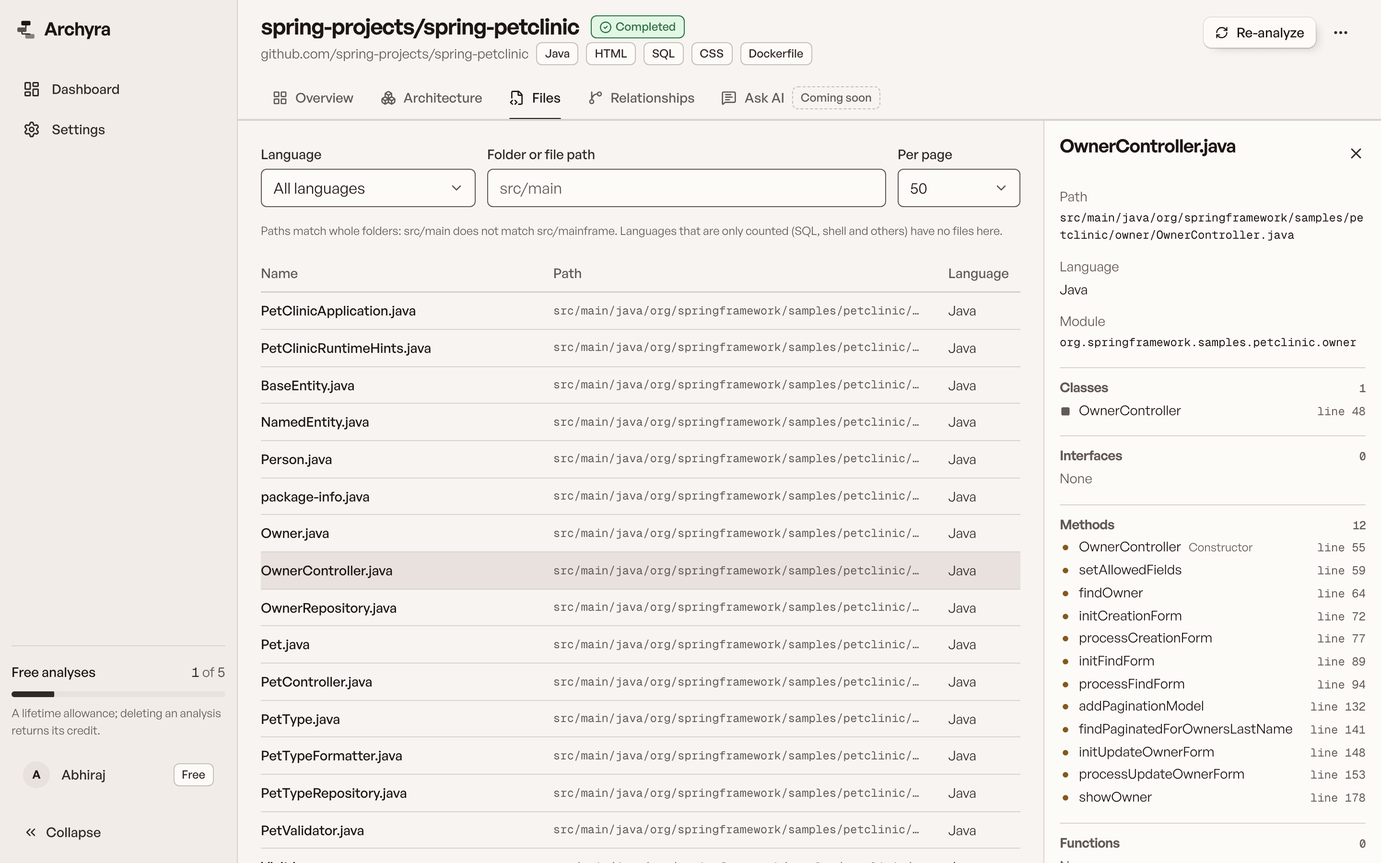
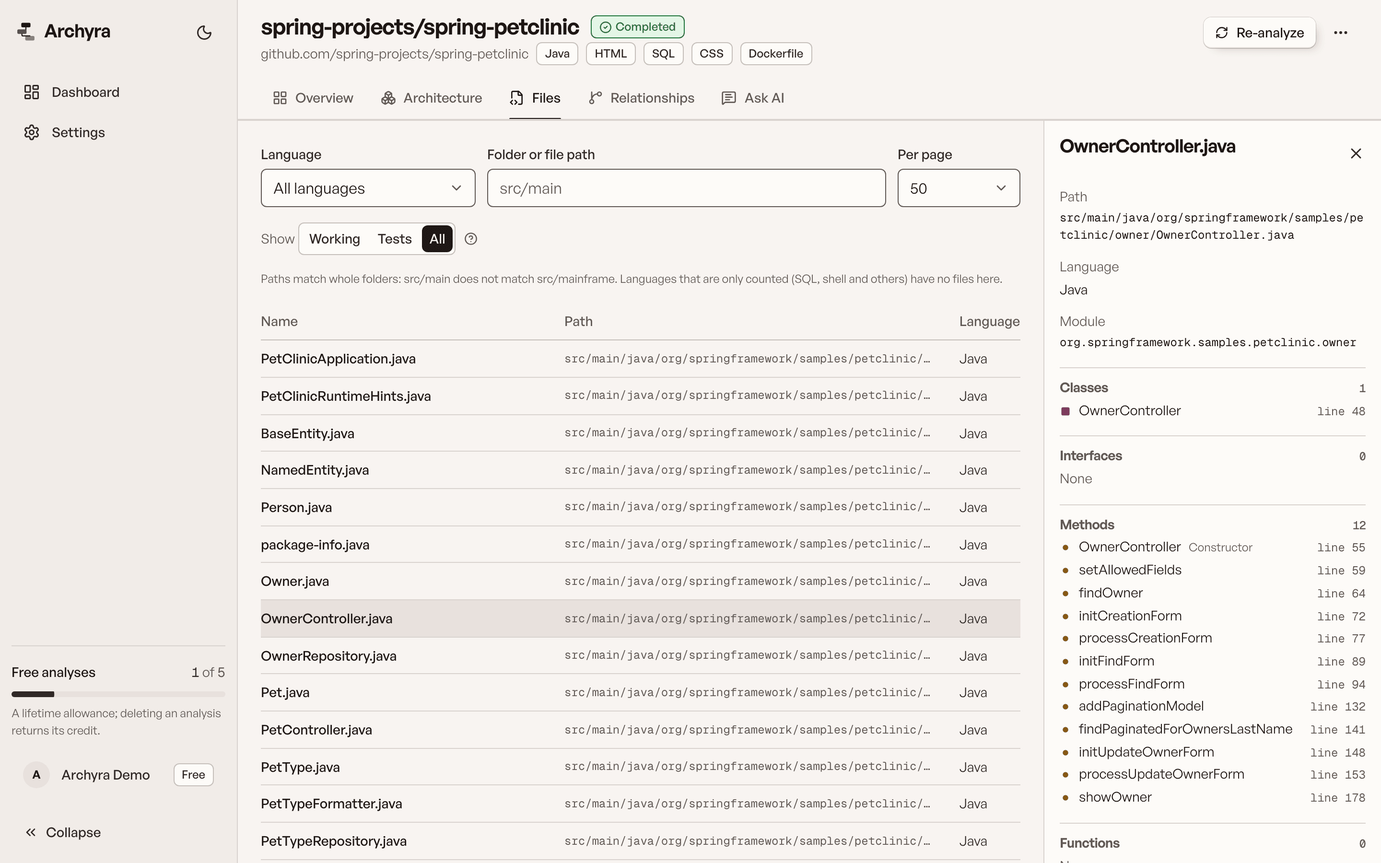
Add a README and the MIT licence, refresh the screenshots
- README.md: what Archyra is, built features and roadmap, how it works,
  tech stack, quick start, configuration names, testing.
- LICENSE: MIT.
- frontend: engines node >=22 (package.json and lockfile).
- Re-capture hero, graph-layered, workspace-preview, files-table and
  relationships-browser from the current app (foundations on top, Ask AI
  built); workspace-preview opens the class view (capture.mjs).
- Re-record the two light landing baselines that use those images.
- Update the assets README, Architecture.md and the CLAUDE.md files.

diff --git a/frontend/CLAUDE.md b/frontend/CLAUDE.md
@@ -18,7 +18,8 @@ npm run e2e -- theme    # the dark theme in a browser: toggle, no flash, Setting
 node scripts/snapshot-tokens.mjs   # re-record src/styles/tokens.light.snapshot.json (only when a light colour is meant to change)
 npm run e2e:session     # just the session-boot regression tests (scripts/e2e/session-boot.spec.ts)
 npm run e2e             # Playwright against the running app and backend (skips without .env.local creds)
-npm run assets:capture  # regenerate src/assets/*.png from the running app (see src/assets/README.md)
+npm run assets:capture  # regenerate src/assets/*.png from the running app (see src/assets/README.md); `-- --only hero,graph-layered` for some
+npm run e2e -- visual -g "landing at"   # compare only the two landing baselines (add --update-snapshots after re-capturing an asset)
 node scripts/e2e/probe-api.mjs   # print live response SHAPES (no values) to check src/api/types.ts (includes ai-index and conversations)
 
 npx vitest run src/lib/url.test.ts          # one unit test file
@@ -28,6 +29,7 @@ npm run e2e -- -g "admin gating"            # e2e tests by name
 
 ## Setup
 
+- **Node 22 or newer** (`engines` in `package.json` and its lockfile entry; npm only warns unless `engine-strict` is set). The root `README.md` states the same; keep them in step.
 - `VITE_BACKEND_ORIGIN` (default `http://localhost:8080`) is the proxy target; `.env.example` lists every variable. `VITE_*` values ship to the browser: never a secret there.
 - The browser only uses relative URLs, so SPA and API share an origin and the `SameSite=Strict` refresh cookie works. The proxy keeps the original `Host` (`changeOrigin: false`) and adds `X-Forwarded-*` (`xfwd`), so the backend builds OAuth redirect URIs on `http://localhost:5173` (checked against the real authorization redirect; `scripts/e2e/auth-flows.spec.ts` guards it). Register `http://localhost:5173/login/oauth2/code/{google,github}` with the providers and always browse via `http://localhost:5173`, never `127.0.0.1`. **Google** can hold several redirect URIs (keep the `:8080` one next to it); a **GitHub OAuth App holds exactly one** callback URL, so it serves the proxy flow or direct `:8080` use, not both (a second OAuth App with its own `GITHUB_CLIENT_ID`/`GITHUB_CLIENT_SECRET` in `backend/.env` covers both). A `redirect_uri_mismatch` is a provider-console setting, not a code defect. In production, serve the SPA and the API on one origin behind a reverse proxy.
 - Capture and e2e scripts read test accounts from an untracked `.env.local` (`ARCHYRA_TEST_*`, `ARCHYRA_ADMIN_*`). Use dedicated test accounts, never a real person's.
@@ -64,9 +66,9 @@ scripts/       check-tokens.mjs, check-contrast.mjs, snapshot-tokens.mjs, captur
 - **Analysis lifecycle:** `/analyses/:id` polls status (`useAnalysisStatus`, 2 s, stops at COMPLETED/FAILED) and hands over to `/analyses/:id/overview`; the workspace layout redirects back to the progress view while the analysis is not COMPLETED. Result queries take a `ready` flag and stay idle until then.
 - **Restored (`NOT_ANALYZED`) repositories** (a returning user's repositories whose credit an earlier, deleted account spent; backend: `Architecture.md` → "A returning user gets their repositories back…"). The status is **idle**: `lib/status`/`api/types` classify it as neither running (`isRunning` is `RUNNING_STATUSES.includes`) nor finished (`isTerminal`), `isSettled` (COMPLETED, FAILED, NOT_ANALYZED) stops polling, and `useAnalysesPage` polls only while something `isRunning`. The history list (`HistoryTable`) shows the repository name and URL, a "Not analysed" chip (`StatusChip`: `CircleDashed` icon plus text, never colour alone), `RESTORED_NOTE` ("Restored from your previous account. Analyse it to use the credit you already spent, or delete it to get the credit back.", `lib/restoredEntry.ts`) and `RestoredEntryActions` (*Analyse* and *Delete*). *Delete* is the existing `DeleteDialog` with entry copy and the real usage numbers (`creditReturnNote`: "you have used 5 of 5, and will have used 4 of 5"; Premium is told the count does not change). *Analyse* is `useAnalyzeRestored` → `POST /analyses/{id}/analyze` (the same row; nothing is charged): on success it sets the status query to QUEUED (so polling resumes and `AnalysisPage` does not bounce back), refetches history and usage, and navigates to `/analyses/:id` (the normal progress view); errors are by `code` (`ANALYSIS_NOT_RESTORABLE`, `SERVICE_BUSY`, `RATE_LIMITED`). Opening one: `AnalysisPage` redirects a NOT_ANALYZED id to `/overview`, and `WorkspaceLayout` shows its normal header and tabs with `NotAnalysedPanel` on **every** tab instead of the outlet (no graph, spinner or request to a results endpoint; Ask AI says it is off until the repository is analysed) and the same two actions; the header's Re-analyze/Delete menu is not rendered for it (re-analysing would charge again).
 
+- **Technologies on the Overview (`features/repository/overview`).** `GET /repository` returns `technologies: [{ name, category }]` (always present, ordered by the backend; `Architecture.md` → Get repository information). `lib/technologies.ts` is the one place with the category labels and the display order (backend and frontend frameworks first, libraries last), `groupTechnologies` (non-empty groups only, names sorted and without repeats, an unknown category read as `LIBRARY` so a newer backend never breaks the page) and `visibleNames` (`GROUP_VISIBLE_LIMIT` = 12). `OverviewPage` shows a Technologies section under Languages in the same column (heading `technologies-heading`, a skeleton while loading, nothing when the request failed, as Languages does, and "No frameworks, libraries or tools were detected." when empty), each group as a heading and text chips (`TechnologyGroups`; no colour carries meaning); a group over 12 shows the first 12 and a *Show N more* button (`aria-expanded`, `aria-controls`, *Show fewer* when open). A "Technologies: N detected" tile sits beside Languages (`.stats--five` makes the Overview row five columns; the admin stats row keeps four). The caption says the detection is best effort ("Detected from manifests, files and imports. Best effort, it can miss things."): never present the list as complete. e2e: `overview-technologies.spec.ts` reads `/repository` through the API and compares the chips; it skips, saying why, when the account has no analysis with (or without) technologies.
 - **Premium (`features/billing`, `hooks/useBilling.ts`; backend `Architecture.md` → Billing, spec `spec/razorpay-premium`).** `/upgrade` (`UpgradePage`, linked from the account menu in the shell, the upgrade dialog's primary button, Settings and every "Upgrade" mention through `openUpgrade`) reads `GET /billing/plans` and `/billing/status`; no price, limit or day count is a literal. The pay button runs `useRazorpayCheckout`: create the order or subscription (the amount is the server's), load `checkout.js` **only then** (`lib/razorpayCheckout.ts`: the one third-party script, DESIGN-NOTES → Third-party script), open Checkout with the returned ids and key, prefilled with the user's name and email and **no `theme.color`**, then verify and poll `GET /billing/status` for up to 30 s (`CONFIRM_WAIT_MS`; the webhook may land first) until the end date moved: "Premium is active until <exact date and time>". Closing the window is not an error; Razorpay's `payment.failed` reason is shown as text; a confirmation that does not arrive in time says Premium starts as soon as Razorpay confirms (never "pay again"). `BILLING_UNAVAILABLE` (or `plans.enabled` false) shows a calm notice and no pay button. Every successful billing mutation invalidates `['billing']`, `usage` and `me`. **The expiry banner** (`ExpiryBanner`, in `AppShell` above the outlet, every page) shows for `EXPIRING` and `GRACE` and is not dismissible; **the dialog after sign-in** (`SignInExpiryDialog`) shows once per interactive sign-in: `lib/signInNotice.ts` sets a session-storage flag where a sign-in completes (`session.signIn` for email, `OAuthCallbackPage` once the boot found the new session; never on a reload or a silent refresh, and no second hydration path), the dialog reads it in its state initialiser and clears it in an effect. **Time wording** is `lib/resetTime.ts`: `timeUntil` is the general form of the Ask AI reset's `resetWait` (same results, pinned by tests) and `whenPhrase` adds "today at" / "tomorrow at" ("Your Premium ends in 3 days", "ends today at 05:30"). **Settings → Subscription** (`SubscriptionSection`, `#subscription`) always shows the exact end for a stored Premium plan in the reader's zone with its name (`lib/billing.ts` `exactDateTime`: "Ends on Friday, 27 November 2026 at 11:58 (IST)"; Intl names Asia/Kolkata "IST" only in `en-IN`, so `zoneLabel` tries locales), "Ended on ..." or "No end date", auto-renew and the next charge, Cancel auto-renew (`CancelAutoRenewDialog` states the date Premium then ends), the payment history and the retention list (kept and at risk, each with its last use). The usage meter adds "Premium until ..." for Premium. e2e: `scripts/e2e/billing.spec.ts` (the Checkout frame only with TEST keys on the backend; the seeded-plan tests use the e2e database helper `sql` in `helpers.ts` and are opt-in with `ARCHYRA_E2E_DB_CONTAINER`).
 - **Graph:** the whole graph is fetched once per analysis (`useGraph`, `staleTime: Infinity`) and filtered client-side (the V0.1 `nodeType`/`relationshipType` take one value each). `graph/adapter.ts` produces the visible set, `graph/useLayout.ts` runs dagre in `layout.worker.ts` (cached by visible ids), `GraphCanvas` renders it and fits the connected part. **Direction (`DESIGN-NOTES.md` → Graph layout):** the data is unchanged (`source` depends on `target`; ids, URLs, `neighbourhood()`, degrees, the name filter and the inspector's "A depends on B" all read it), but a `DEPENDS_ON` edge is **drawn from the dependency to the dependent**, so the arrowhead lands on the dependent and foundations sit on top. That is decided only in `adapter.ts`: `drawDirection` (arrow), `rankOrder`/`layoutEdges` (what dagre gets: target above source for `DEPENDS_ON`, `EXTENDS`, `IMPLEMENTS`, `REFERENCES`; source above target for `CALLS`, `IMPORTS`, `CONTAINS`), `toFlowEdge` (the React Flow edge, its `aria-label` "A depends on B" and top/bottom anchors) and `describeEdge`. Never swap `source`/`target` anywhere else and never reverse the data. `layoutCacheKey` and the manual-positions `storeKey` carry `LAYOUT_VERSION` (`layoutVersion.ts`): bump it when orientation rules change. The legend explains it in one line; changing it changes the Architecture, Overview and landing light baselines on purpose (re-record only those). Pinned in `adapter.test.ts`, `layout.test.ts`, `manualPositions.test.ts` and the `Direction` tests of `graph-controls.spec.ts`. Filters, the selected node and the list view live in the URL (`?nodes=&edges=&node=&view=&scope=&q=&dependents=`).
-- **Technologies on the Overview (`features/repository/overview`).** `GET /repository` returns `technologies: [{ name, category }]` (always present, ordered by the backend; `Architecture.md` → Get repository information). `lib/technologies.ts` is the one place with the category labels and the display order (backend and frontend frameworks first, libraries last), `groupTechnologies` (non-empty groups only, names sorted and without repeats, an unknown category read as `LIBRARY` so a newer backend never breaks the page) and `visibleNames` (`GROUP_VISIBLE_LIMIT` = 12). `OverviewPage` shows a Technologies section under Languages in the same column (heading `technologies-heading`, a skeleton while loading, nothing when the request failed, as Languages does, and "No frameworks, libraries or tools were detected." when empty), each group as a heading and text chips (`TechnologyGroups`; no colour carries meaning); a group over 12 shows the first 12 and a *Show N more* button (`aria-expanded`, `aria-controls`, *Show fewer* when open). A "Technologies: N detected" tile sits beside Languages (`.stats--five` makes the Overview row five columns; the admin stats row keeps four). The caption says the detection is best effort ("Detected from manifests, files and imports. Best effort, it can miss things."): never present the list as complete. e2e: `overview-technologies.spec.ts` reads `/repository` through the API and compares the chips; it skips, saying why, when the account has no analysis with (or without) technologies.
 - **Sign-in methods (Settings):** `features/settings/SignInMethods.tsx` with `useLinkedIdentities`, `useStartLink`, `useUnlinkIdentity` (`hooks/useLinkedIdentities.ts`). *Link* posts for an intent, checks the returned `authorizationUrl` with `isLinkAuthorizationUrl` and does a full-page `window.location.assign` (never fetch; the backend sets the `link_binding` cookie on that response). The provider returns to `/settings?link=ok&provider=…` or `/settings?link_error=<code>`: the section reads them once (a ref guards StrictMode), shows a toast or a dismissible banner from the fixed allow-list in `lib/errorCopy.ts` (`describeLinkError`; unknown codes get generic copy, the raw value is never rendered), invalidates the identities and `me` queries, and replaces the URL without the parameters (`lib/linkReturn.ts`). *Unlink* is disabled with a visible explanation when it is the only way to sign in (`isLastSignInMethod`); the server's `LAST_LOGIN_METHOD` is handled too. The return is a full page load, so it goes through the normal session boot; there is no special session handling. `ToastProvider`/`useToast` (`components/ui`) is the app's one toast.
 - **Password (Settings):** `features/settings/ChangePassword.tsx` with `useChangePassword` (`hooks/useAccount.ts`) → `changePassword` (`api/endpoints/auth.ts`, bearer, **not** an `open` route). It asks for the current password plus the new one twice (`changedPasswordError` in `features/auth/validation.ts`; the server decides). `INCORRECT_PASSWORD` shows on the current-password field, `VALIDATION_ERROR` on the new one, anything else in a notice. **The response is a new session**: the endpoint calls `setAccessToken` with it and the browser replaces the refresh cookie itself, so the user stays signed in here while every other device signs out; the toast says so. When `linked-identities.hasPassword` is false (Google/GitHub-only account) the section shows a pointer to Forgot password instead of the form.
 - **Ask AI (`features/repository/ask-ai`):** `AskAiPage` reads the index (`useAiIndex`, polled every 2 s **only while INDEXING**, idle until the analysis is COMPLETED) and switches on `status`: `IndexPanel` for NOT_INDEXED (a *Re-analyze* button that opens the existing `ReanalyzeDialog`, which carries the "conversations are deleted" warning in one place), INDEXING (progress from `embeddedCount/chunkCount`, `aria-live`, a disabled composer), FAILED (the safe `reason`, a free *Retry* when `retryable`, else Re-analyze) and EMPTY; READY shows `ChatWorkspace`. Conversations are listed, created, deleted through hooks (`hooks/useAskAi.ts`); the selected one is `?c=<id>` (left out when none; an unknown or deleted id falls back to the empty state). `useAskQuestion` stays pending until the conversation's messages and `/usage` are refreshed, so the optimistic turn never flickers; the workspace shows the question at once with a polite "Thinking…", disables the composer for that conversation only, and **never loses the typed text**: on every failure it is put back. Failures are handled by `code`: `USAGE_LIMIT_EXCEEDED` replaces the composer with `LimitPanel` (see **Weekly Ask AI allowance** below), `RATE_LIMITED` shows a live countdown from `Retry-After` (`retrySeconds` bounds it), `AI_UNAVAILABLE` and a client timeout (about 75 s) say the question wasn't counted with *Try again*, `AI_NOT_READY` refetches the index, `CONVERSATION_FULL` offers a new conversation. The usage chip reads the real `AI_QUERY` entry (`useAiUsage`, `questionsLabel`: "13 of 15 questions left this week"), never a literal limit. **Answers are rendered by an in-house renderer** (`lib/askAi.ts` parses blocks and inlines into data, `MarkdownView` builds React elements): no `dangerouslySetInnerHTML`, no HTML from the model, links only for http(s). `[n]` markers with a matching source become superscript buttons that expand and focus the source; a marker with none stays text. A source (`SourceChip`/`SourcePanel`) shows glyph and name, then `file:line–endLine`, the excerpt as text and *Open in graph* (a class or interface directly; a method goes to its owning class through `useNode`; a function has no link). The data-use note sits next to the composer. **The question guide** (`QuestionGuide`, `lib/askGuide.ts`): shown in full in an empty conversation and, at any other time, as a collapsible *What to ask* panel (`GuideToggle`, a button next to the composer with `aria-expanded`). *Questions that work well* are grouped (the project, how things work, relationships, explain code) and each example is a button that **fills the composer and never sends**; the class `X` (the most depended-on non-test class or interface) and the module `y` (most non-test files) come from the graph `useGraph` already caches, with static placeholders (and a note saying so) until it is there. *Questions that won't work, or will waste one of your questions* is a fixed list (off-topic, asking to change code, tests, things not in the code, languages Archyra only counts, "explain everything", other conversations). The honest counting note (`COUNTING_NOTE`) is beside the composer and in the guide, next to the real remaining count from `/usage` (never a literal). `QUESTION_NOT_ANSWERABLE` (422) is shown inline on that turn with the question quoted, "Not counted" in the copy, **no Try again** (the same question would be refused again), the text back in the composer and the guide opened. A `MODULE` source links to the Architecture tab with `?node=`; the `REPOSITORY` source has no link and its excerpt is the README text. **No provider is named anywhere in the frontend:** the backend's provider chain is configuration, so "Answered by X" shows the `providerName` the server sends (`providerNote`, falling back to the free-form `provider` id) and the note says answers come from third-party free-tier AI providers that may log prompts or use them to improve their products. Never switch on a provider id.
@@ -96,3 +98,8 @@ scripts/       check-tokens.mjs, check-contrast.mjs, snapshot-tokens.mjs, captur
 ## Assets
 
 Images live in `src/assets/` as PNGs produced by `npm run assets:capture` from the real app (Chromium, 2x, a real spring-petclinic analysis by a test account; never admin screens, settings, menus or emails). Import them with static Vite imports; replacing an image means overwriting the file with the same name. Containers size images with `aspect-ratio` and `object-fit`, so new dimensions do not break layouts. `src/assets/README.md` lists every file.
+
+- **The images are also the root `README.md`'s screenshots** (relative paths, `<img width>`), so a stale image misleads twice. Re-capture after a UI change that shows in them (the graph orientation, the tab bar, a "Coming soon" that became real) and update the row in `src/assets/README.md` (description and pixel size) in the same change.
+- **They are imported only by `features/landing/LandingPage.tsx`, so re-capturing one changes the light landing screenshots.** Re-record just those, never the whole baseline: `npm run e2e -- visual -g "landing at" --update-snapshots` (`landing-1440.png`, `landing-390.png`), compare once more without the flag, and leave every other baseline untouched. The signed-out screens need the test account only because the spec discovers an analysis first.
+- **`workspace-preview` opens the class view on purpose** (`architecture?nodes=CLASS,INTERFACE&edges=DEPENDS_ON,EXTENDS,IMPLEMENTS&node=…`): the default view is the module graph, which does not contain the selected class. `hero` crops to the connected **modules that are on screen**; the script waits for every module an edge names, so a repository whose only connected module is test-only (hidden by the default `working` scope) times out in the hero step (seen with spring-petclinic's test-only `service` package; work around it by cropping to the modules present, and fix the script when you next touch it).
+- Capture with a throwaway account (display name "Archyra Demo": the sidebar shows it) against a second backend and Vite on other ports, never the admin or a real person, and delete the account afterwards.

diff --git a/README.md b/README.md
@@ -1,0 +1,220 @@
+# Archyra
+
+*The architecture behind your code.*
+
+![Java 25](https://img.shields.io/badge/Java-25-007396)
+![Spring Boot 4](https://img.shields.io/badge/Spring_Boot-4.0-6DB33F)
+![React 19, TypeScript, Vite](https://img.shields.io/badge/Frontend-React_19_and_TypeScript-149ECA)
+![Neo4j](https://img.shields.io/badge/Graph-Neo4j-008CC1)
+![PostgreSQL with pgvector](https://img.shields.io/badge/Data-PostgreSQL_and_pgvector-336791)
+
+## What is it
+
+Paste the URL of a public GitHub repository. Archyra clones it, parses it with Tree-sitter, builds a code graph in Neo4j
+(modules, files, classes, methods and how they import, call, extend and depend on each other) and shows it as an
+explorable architecture diagram. You can then ask questions about the repository and get answers that cite the
+code they came from.
+
+The graph comes first and works without any AI. Ask AI sits on top of it: the graph says what exists and how it is connected, and the
+model explains what that means. There is no hosted instance yet; you run it yourself (see [Quick start](#quick-start)).
+
+<p align="center">
+  <img src="frontend/src/assets/workspace-preview.png" alt="The Archyra workspace for spring-petclinic: repository header, tabs, the module dependency graph and the inspector for OwnerController" width="900">
+</p>
+
+<p align="center">
+  <img src="frontend/src/assets/hero.png" alt="The module dependency graph of spring-petclinic, with the foundation module on top and the modules that depend on it below" width="440">
+  <img src="frontend/src/assets/graph-layered.png" alt="The class and interface graph of spring-petclinic, joined by Depends on, with entities on top and controllers at the bottom" width="440">
+</p>
+<p align="center">
+  <img src="frontend/src/assets/files-table.png" alt="The Files tab with OwnerController.java open: its module, classes and methods" width="440">
+  <img src="frontend/src/assets/relationships-browser.png" alt="The Relationships tab showing what OwnerController depends on and its methods" width="440">
+</p>
+
+<sub>Screenshots are captured from the running app on <a href="https://github.com/spring-projects/spring-petclinic">spring-petclinic</a>.</sub>
+
+## Features
+
+Built and working today:
+
+- **Repository analysis.** Asynchronous, with live progress. History of your analyses, delete, and re-analyse (the new run replaces the old one when it completes).
+- **Languages.** Classes, functions, imports and calls are extracted for Java, Kotlin, Python, JavaScript/TypeScript (JSX/TSX), Go, Rust, C#, PHP, Ruby, Solidity, Vue and Svelte components, and Jupyter notebooks.
+  Swift, Dart, C, C++, Scala, R, Julia, shell, SQL, HCL, Dockerfile, HTML and CSS are detected and counted but add no graph nodes.
+- **Architecture graph.** Opens on modules joined by *Depends on* (on classes for a single-package repository), with foundations on top. Switch on classes, interfaces, methods, files and the other relationship types; scope control (working code, tests or all); a name filter that also shows dependents and dependencies; draggable nodes; minimap; full screen; the selection and filters live in the URL, so views are deep-linkable.
+- **Files and Relationships browsers.** Files with a detail drawer; classes and interfaces with what they extend, implement, depend on and are depended on by.
+- **Detected languages and technologies** on the Overview (best effort, from manifests, files and imports).
+- **Ask AI.** Questions about a repository answered from its code, with numbered source citations that the server checks against the graph. Conversations are saved. Answers come from a configurable chain of free LLM providers (Gemini first); embeddings run locally, with no key. Free users get 15 questions per week by default, resetting every Monday.
+- **Accounts.** Email and password, Google and GitHub sign-in, email verification and password reset, linking and unlinking Google/GitHub in Settings, and account deletion. An admin area lists users and shows statistics.
+- **Free and Premium plans.** Free users have a lifetime allowance of analyses and the weekly Ask AI allowance. Premium (through Razorpay, one-time or auto-renew) removes those caps. Payments work only when you configure Razorpay keys; without them the app starts and billing is off.
+- **Light and dark themes** (Light, Dark or System).
+
+### Roadmap (not built yet)
+
+- Interactive graph for Premium: click a class to expand into its methods and their calls, method-level dependencies, deeper relationship exploration (V2). The UI shows these as "coming soon".
+- Graph views by expertise level, Beginner, Intermediate and Expert (V3).
+- AI architecture interpretation (`/architecture`) and "explain this node" (`/explain`).
+- Deployment. Packaging the Tree-sitter libraries for deployment, and database migrations (the schema is created by Hibernate `ddl-auto=update` today), are still to do.
+- Redis and RabbitMQ for background processing, once there is real load.
+
+## How it works
+
+```mermaid
+flowchart LR
+    URL["GitHub repository URL"] --> Clone["Clone (shallow git)"]
+    Clone --> Parse["Parse with Tree-sitter"]
+    Parse --> IR["Intermediate representation"]
+    IR --> Graph["Graph builder"]
+    Graph --> Neo["Neo4j: code graph"]
+    Graph --> Pg["PostgreSQL: analysis metadata"]
+    Neo --> API["REST API /api/v1"]
+    Pg --> API
+    API --> App["React app"]
+```
+
+Ask AI reads the same graph. When an analysis completes, its code is cut into chunks (while the clone still exists), embedded
+inside the JVM and stored in pgvector. A question is answered by hybrid retrieval and a chat model:
+
+```mermaid
+flowchart LR
+    Q["Question"] --> R["Hybrid retrieval"]
+    Neo["Neo4j: names and graph neighbours"] --> R
+    Vec["pgvector: nearest code chunks"] --> R
+    R --> P["Provider chain, first usable provider answers"]
+    P --> G["Grounding: citations checked in Neo4j"]
+    G --> A["Answer with sources"]
+    Idx["Analysis completes: chunks, local embeddings"] --> Vec
+```
+
+## Tech stack
+
+| Area | Technology |
+| --- | --- |
+| Backend | Java 25, Spring Boot 4.0.9, Spring Security (JWT, OAuth2), Spring Data JPA, Maven wrapper |
+| Frontend | React 19.3, TypeScript 5.9, Vite 7.3, Tailwind CSS 4.3, React Router 7, TanStack Query 5 |
+| Graph UI | React Flow (`@xyflow/react` 12), dagre layout in a Web Worker |
+| Data stores | Neo4j (the code graph, via Cypher), PostgreSQL 17 with pgvector (accounts, metadata, embeddings) |
+| Parsing | Tree-sitter through `io.github.tree-sitter:jtreesitter` 0.27.0 (Java FFM API) |
+| AI | Spring AI 2.0.2 (local ONNX `all-MiniLM-L6-v2` embeddings, Gemini adapter), OpenAI-compatible providers over `RestClient` |
+| Payments | Razorpay, through a plain `RestClient` |
+| Testing | JUnit 5, Mockito, Testcontainers, WireMock, GreenMail; Vitest, Testing Library, Playwright |
+
+## Quick start
+
+You need:
+
+- Java 25, `git`, `make` and a C compiler (for the Tree-sitter libraries)
+- Node.js 22 or newer (`frontend/package.json` declares it in `engines`)
+- PostgreSQL 17 **with pgvector** and Neo4j 5, for example through Docker
+- A Google and a GitHub OAuth app: the backend does not start without their client ids and secrets
+- Optional: an API key for at least one LLM provider, for Ask AI
+
+There is no `docker-compose` file in the repository; the commands below start the two databases by hand.
+
+```bash
+# 1. Backend, from backend/
+cd backend
+./scripts/build-native.sh              # once: builds the Tree-sitter libraries into native/
+docker run -d -p 7687:7687 -e NEO4J_AUTH=neo4j/<password> neo4j:5.26-community
+docker run -d -p 5432:5432 -e POSTGRES_PASSWORD=<password> -e POSTGRES_DB=archyra pgvector/pgvector:pg17
+./scripts/fetch-embedding-model.sh     # optional prefetch of the ~90 MB embedding model
+cp .env.example .env                   # then fill in the required values (below)
+./mvnw spring-boot:run                 # API on http://localhost:8080
+
+# 2. Frontend, from frontend/ in a second terminal
+cd frontend
+npm install
+npm run dev                            # app on http://localhost:5173
+```
+
+Open **http://localhost:5173** (not `127.0.0.1`: the OAuth redirect URIs are registered for that origin), sign in, paste a repository URL on the dashboard and wait for the analysis to finish.
+
+- Register the redirect URIs `http://localhost:5173/login/oauth2/code/google` and `.../github` with the providers.
+- For local development over plain HTTP set `COOKIE_SECURE=false` in `.env`.
+- The embedding model is downloaded on first start if you skipped `fetch-embedding-model.sh` (it needs access to huggingface.co).
+- Email verification and password reset send mail. Point `SMTP_*` at a local sink such as MailHog, or sign in with Google or GitHub.
+- Ask AI answers `503 AI_UNAVAILABLE` until at least one provider key is set; indexing and the graph need none.
+
+<details>
+<summary>Provider set-up, mail sink and troubleshooting</summary>
+
+Everything is explained in [`backend/README.md`](backend/README.md): OAuth redirect URIs and `redirect_uri_mismatch`, a MailHog
+command, the list of LLM providers (keys, models, limits and data-use notes), the Razorpay dashboard set-up, and deployment notes.
+A plain `postgres` image stops startup with a message, because Ask AI needs the pgvector extension.
+
+</details>
+
+## Configuration
+
+Settings come from environment variables or `backend/.env`, which is git-ignored (`.env` files are never committed; only `backend/.env.example`
+and `frontend/.env.example` are). Variable names only:
+
+| Variable | Purpose |
+| --- | --- |
+| `DB_USERNAME`, `DB_PASSWORD` | PostgreSQL login (required) |
+| `NEO4J_PASSWORD` | Neo4j password (required); `NEO4J_URI`, `NEO4J_USERNAME` optional |
+| `JWT_SECRET` | Signs access tokens (required) |
+| `GOOGLE_CLIENT_ID`, `GOOGLE_CLIENT_SECRET`, `GITHUB_CLIENT_ID`, `GITHUB_CLIENT_SECRET` | OAuth login (required to start) |
+| `ANALYSIS_LIMIT` | Lifetime analyses for Free users (required) |
+| `USAGE_LEDGER_SECRET` | Key for the usage ledger that survives account deletion (required) |
+| `AI_LIMIT`, `USAGE_RESET_ZONE` | Weekly Ask AI allowance and the time zone of its Monday reset |
+
+<details>
+<summary>All other variables</summary>
+
+| Variable | Purpose |
+| --- | --- |
+| `JWT_ISSUER`, `COOKIE_SECURE`, `FRONTEND_BASE_URL`, `CORS_ALLOWED_ORIGINS` | Token issuer, cookie flag, and the SPA origin for links and CORS |
+| `AI_PROVIDER_ORDER` | Order in which Ask AI providers are tried |
+| `GEMINI_API_KEY`, `GROQ_API_KEY`, `OPENROUTER_API_KEY`, `CLOUDFLARE_API_TOKEN`, `CLOUDFLARE_ACCOUNT_ID`, `ZAI_API_KEY`, `COHERE_API_KEY`, `LLM7_API_KEY` | Keys of the standard providers |
+| `GEMINI_MODEL`, `GROQ_MODEL`, `OPENROUTER_MODEL` | Model overrides |
+| `OVH_ENABLED` | OVHcloud works without a key and is on by default |
+| `NVIDIA_NIM_ENABLED`, `NVIDIA_NIM_API_KEY`, `KILO_ENABLED`, `GONKA_ENABLED`, `GONKA_API_KEY` | Opt-in providers, off unless enabled |
+| `EMBEDDING_CACHE_DIR` | Where the local embedding model is cached |
+| `RAZORPAY_KEY_ID`, `RAZORPAY_KEY_SECRET`, `RAZORPAY_WEBHOOK_SECRET`, `RAZORPAY_PLAN_MONTHLY`, `RAZORPAY_PLAN_YEARLY`, `BILLING_ZONE` | Payments; without the key pair billing is off |
+| `SMTP_HOST`, `SMTP_PORT`, `SMTP_USERNAME`, `SMTP_PASSWORD`, `SMTP_AUTH`, `SMTP_STARTTLS`, `MAIL_FROM` | Outgoing mail |
+| `ADMIN_EMAIL`, `ADMIN_PASSWORD` | Creates the first administrator if none exists |
+
+The frontend has one variable, `VITE_BACKEND_ORIGIN` (the dev proxy target, default `http://localhost:8080`). Never put a secret in a `VITE_*` variable.
+
+</details>
+
+Details and the meaning of each value: [`backend/README.md`](backend/README.md) → Configuration.
+
+## Project structure
+
+```
+backend/          Spring Boot API and analysis engine (package-by-feature under com.abhiraj.archyra)
+frontend/         React app, talking to the real /api/v1 backend through the Vite proxy
+  src/assets/     screenshots captured from the running app (used above)
+spec/             feature specs and decisions (some specs live in backend/spec and frontend/spec)
+Architecture.md   design source of truth: roadmap, API contracts, data model, decisions
+CLAUDE.md         working guide for the codebase (also backend/CLAUDE.md and frontend/CLAUDE.md)
+```
+
+## Documentation
+
+- [`Architecture.md`](Architecture.md): design, API contracts and the decision log
+- [`backend/README.md`](backend/README.md): running, configuring and securing the backend, Ask AI providers, payments
+- [`backend/CLAUDE.md`](backend/CLAUDE.md) and [`frontend/CLAUDE.md`](frontend/CLAUDE.md): conventions, rules and structure of each side
+- [`frontend/DESIGN-NOTES.md`](frontend/DESIGN-NOTES.md): design tokens, graph layout and the dark theme
+- [`spec/`](spec/): specs for individual features
+
+## Testing
+
+```bash
+cd backend  && ./mvnw clean test      # all backend tests; Docker must be running (PostgreSQL with pgvector and Neo4j start through Testcontainers)
+cd frontend && npm run verify         # typecheck, lint, token checks, unit tests, build and the session-boot e2e test
+cd frontend && npm run e2e            # Playwright against the running stack; skips without test credentials in .env.local
+```
+
+The first backend run downloads the embedding model (about 90 MB). The Playwright tests need a running backend and frontend and a
+dedicated test account; see [`frontend/CLAUDE.md`](frontend/CLAUDE.md).
+
+## Contributing
+
+There is no contributing guide yet. If you want to change something, open an issue first, and read the `CLAUDE.md` files for the
+conventions (no mock data, package-by-feature on the backend, design tokens only on the frontend). Add or update tests with your change.
+
+## Licence
+
+Archyra is licensed under the MIT License. See [`LICENSE`](LICENSE).

diff --git a/CLAUDE.md b/CLAUDE.md
@@ -8,6 +8,7 @@ Archyra ("the architecture behind your code") analyzes a GitHub repository, buil
 
 ## Repository layout
 
+- `README.md` and `LICENSE` (MIT, copyright 2026 abhirajsingh): the public face of the repository. The README is the page GitHub shows: what Archyra is, screenshots (from `frontend/src/assets/`), features, quick start, the environment variable **names**, project structure and testing. **Keep it true:** when you change a run command, a port, a required version, an environment variable (also `backend/.env.example`, `backend/README.md`), a built feature or the roadmap, update the README in the same change. It lists only built features, with unbuilt ones under "Roadmap"; never describe planned work as working, and never put a value or secret in it.
 - `backend/`: Spring Boot API and analysis engine. Build commands, package conventions and backend rules are in `backend/CLAUDE.md`.
 - `frontend/`: the React app, built and talking to the real `/api/v1` backend through the Vite proxy (no mock data). Commands, structure and UI rules are in `frontend/CLAUDE.md`.
 
@@ -16,7 +17,7 @@ Archyra ("the architecture behind your code") analyzes a GitHub repository, buil
 ```bash
 cd backend  && ./mvnw clean test                      # all backend tests (Docker needed; use `clean` after signature changes)
 cd backend  && ./mvnw test -Dtest=AccountLinkingIntegrationTest   # one class (add #method for one test)
-cd frontend && npm run verify                         # typecheck + lint + check:tokens + unit tests + build + session-boot e2e
+cd frontend && npm run verify                         # (Node 22+, `engines` in package.json) typecheck + lint + check:tokens + unit tests + build + session-boot e2e
 cd frontend && npx vitest run src/lib/url.test.ts     # one unit test file
 cd frontend && npm run e2e -- -g "name"               # Playwright against the running stack (skips without .env.local credentials)
 ```
@@ -27,6 +28,7 @@ cd frontend && npm run e2e -- -g "name"               # Playwright against the r
 - Existing specs: `spec/weekly-ask-ai-limit` (Ask AI questions are a weekly allowance: lazy reset on `user_usage.window_start`, window-aware refunds and ledger, `resetsAt` in `GET /usage` and the 403, the "Out of credits" message), `spec/ask-ai-providers` (the provider chain: config-driven providers, safety rules, cool-downs), `spec/graph-controls-and-auth-fixes` (test-code filter, draggable graph nodes, OAuth redirect URIs, generic `202` on duplicate registration) and `spec/oauth-login-hydration-and-account-linking` (one session-boot path with a timeout and retry screen, account linking from Settings with a browser-bound link intent). `spec/account-deletion` (delete an account without resetting usage: the usage ledger, restore on registration and linking, no refunds on purge; amended: the links of the repositories that held a credit are kept too and come back as `NOT_ANALYZED` entries that the owner can analyse with the credit already spent or delete for a refund; deletion overwrites the ledger, the maximum rule is for restore and merge only), `spec/graph-default-and-name-filter`, `spec/ask-ai-overview-and-guidance` and `spec/razorpay-premium` (Premium through Razorpay: one-time or auto-renew, the signed webhook as the source of truth with `BillingService.applyPayment` as the one place that extends Premium, reminder and expiry emails, and after a 3-day grace period only the 5 most recently used repositories are kept). Also `backend/spec/ask-ai-backend` (Ask AI: indexing, retrieval, chat, conversations; built) and `frontend/spec/ask-ai-frontend` (its UI; built after the backend, against the real API). Also `frontend/spec/ui/spec-dark-ui.md` (the dark theme; its hard rule is that the light theme stays pixel-identical, guarded by a token snapshot and zero-tolerance screenshots). Their durable rules are summarised in the sub-guides; do not regress them.
 - Cross-cutting rules that are easy to miss: no mock data anywhere (backend tests use real fixtures and Testcontainers, frontend tests use small inline inputs, Playwright interception only injects network faults); no test-only endpoints in production code; Hallmark "Coral" design tokens only in the frontend, in two colourways (Light is the default and must stay pixel-identical; Dark is an override block in `frontend/src/styles/tokens.css`, the only file with colours; components never branch on the theme; see `frontend/CLAUDE.md` → Design).
 - Commit messages carry no `Co-Authored-By` or other Claude/Anthropic trailer.
+- The README's screenshots are the landing page's images too (`frontend/src/assets/`, captured from the real app, never drawn or mocked). Re-capturing one changes the landing page, so re-record the two landing baselines in the same change (`frontend/CLAUDE.md` → Assets). Decision and rules: `Architecture.md` → "Decision: Public README, licence and screenshots".
 
 ## Running the whole stack
 

diff --git a/Architecture.md b/Architecture.md
@@ -229,6 +229,7 @@
 - Graph database
     - Neo4j (the code graph; Cypher through Spring Data Neo4j's `Neo4jClient`)
 - Frontend
+    - Node.js 22 or newer (`engines` in `frontend/package.json`)
     - React
     - Typescript
     - Vite
@@ -419,6 +420,17 @@ Spec: `frontend/spec/ui/spec-dark-ui.md`. Frontend only: no endpoint, no column,
 - **Where it shows:** a toggle button on the landing page, the auth pages and the app shell, and Settings → Appearance. Final palette and contrast figures: `frontend/DESIGN-NOTES.md` → Dark colourway.
 - **Rejected:** deriving dark by inverting or filtering light (shadows, hues and the graph inks need their own values); a `prefers-color-scheme` media query as the only mechanism (it cannot offer an explicit choice); a per-component `[data-theme]` selector (each would be a second place to keep in step); an inline pre-paint script (blocks a strict CSP); storing the choice in the account (needs an endpoint and a request before first paint for no benefit); dark screenshots for the landing page (out of scope: capture them later with `scripts/capture`).
 - **Consequences:** every new colour token must be written twice; the light baseline images are recorded per OS and account (see the header of `frontend/scripts/e2e/visual.spec.ts`).
+
+### Decision: Public README, licence and screenshots (2026-11-20)
+
+No endpoint, column or application code changed.
+
+- **Licence: MIT.** `LICENSE` at the root, copyright 2026 abhirajsingh (the git author; change it to a full name if wanted). Without a licence others would have no right to reuse the code. The bundled fonts keep their own licence files under `frontend/src/styles/fonts/`.
+- **A root `README.md`** is the repository's public page: what Archyra is, screenshots, built features, a separate "Roadmap (not built yet)" list, how it works (two Mermaid diagrams: the analysis pipeline and the Ask AI path, checked against "Code graph semantics" and "Ask AI backend" above), the tech stack with versions from `pom.xml` and `package.json`, quick start, the environment variable **names** (never values; `.env` files are not committed), structure, documentation, testing, contributing and licence. It states only what the repository contains: no CI, coverage or licence badge that does not exist, no `docker-compose` (there is none; the databases are started with the `docker run` commands of `backend/README.md`). It repeats facts that live elsewhere, so a change to a run command, a port, a version, a variable or a feature's status updates it in the same change.
+- **Screenshots are captured, never drawn.** The README uses the PNGs in `frontend/src/assets/` (`assets:capture`, a real spring-petclinic analysis by a throwaway account). Four of them (`hero`, `graph-layered`, `workspace-preview`, and the tab bars of `files-table` and `relationships-browser`) had been recorded before the graph orientation change and while Ask AI was still "Coming soon", and were re-captured: foundations on top, Ask AI built. `workspace-preview` now opens the **class view** with `OwnerController` selected (the default Architecture view is the module graph, which does not contain a class). `analysis-progress` and `inspector-panel` are older captures that the README does not use.
+- **Consequence for tests.** The images are imported only by the landing page, so the two light landing baselines (`landing-1440`, `landing-390`) were re-recorded on purpose (`visual -g "landing at" --update-snapshots`); no other baseline changed.
+- **Node.js 22 or newer** is declared as `engines` in `frontend/package.json` (there is no root or backend `package.json`; the backend is Maven) and stated in the README.
+- **Not done:** a social preview image (`social-preview.png`), a contributing guide, issue templates and CI workflows.
 
 ---
 

diff --git a/frontend/src/assets/README.md b/frontend/src/assets/README.md
@@ -12,9 +12,9 @@ once for the progress shot. Settings, menus and admin screens are never captured
 
 | File | Pixels | Shows | Used on |
 | --- | --- | --- | --- |
-| `hero.png` | 1640 x 1016 | spring-petclinic's module graph (DEPENDS_ON), cropped to the connected modules. **Drawn in the old orientation** (dependent on top, arrowhead at the dependency); re-run `assets:capture` to show foundations on top | Landing hero |
-| `workspace-preview.png` | 2880 x 1800 | Full workspace: sidebar, header, tabs, class graph, inspector on OwnerController | Landing, workspace showcase |
-| `graph-layered.png` | 2384 x 1230 | The Architecture canvas alone, classes joined by Depends on and Implements. **Old orientation**; re-capture to show foundations on top | Landing tour |
+| `hero.png` | 1640 x 1016 | spring-petclinic's module graph (DEPENDS_ON), cropped to the connected modules. Foundations on top: `model` above `owner` and `vet`, `petclinic` at the bottom, arrowheads at the dependents | Landing hero |
+| `workspace-preview.png` | 2880 x 1800 | Full workspace: sidebar, header, tabs, the class view (classes and interfaces joined by Depends on, Extends and Implements) with OwnerController selected, and its inspector | Landing, workspace showcase |
+| `graph-layered.png` | 2384 x 1226 | The Architecture canvas alone, classes joined by Depends on and Implements. Foundations on top (entities), controllers at the bottom | Landing tour |
 | `inspector-panel.png` | 704 x 1230 | Node inspector for OwnerController with relationship counts | Landing tour |
 | `files-table.png` | 2880 x 1800 | Files tab with OwnerController.java open in the drawer | Landing tour |
 | `relationships-browser.png` | 2880 x 1800 | Class browser with OwnerController selected | Landing tour |

diff --git a/backend/CLAUDE.md b/backend/CLAUDE.md
@@ -2,7 +2,7 @@
 
 This file provides guidance to Claude Code (claude.ai/code) when working with code in this repository. It covers `backend/`.
 
-System-wide architecture, database boundaries, API standards and the roadmap are in the root `CLAUDE.md` and `Architecture.md`. Setup, environment variables and provider configuration are in `README.md`. How the security works is in `spec/security/design.md`; the usage limits are specified in `spec/usage/spec-usage.md` (the weekly Ask AI allowance in `spec/weekly-ask-ai-limit/spec.md`) and Ask AI in `spec/ask-ai-backend/spec.md`. There is no linter or formatter configured: `./mvnw clean test` is the only check.
+System-wide architecture, database boundaries, API standards and the roadmap are in the root `CLAUDE.md` and `Architecture.md`. Setup, environment variables and provider configuration are in `README.md` (this folder's; the repository root `README.md` is the public overview and repeats the run steps and the variable **names**, so a new or renamed variable goes into `.env.example`, `backend/README.md` and the root README together). How the security works is in `spec/security/design.md`; the usage limits are specified in `spec/usage/spec-usage.md` (the weekly Ask AI allowance in `spec/weekly-ask-ai-limit/spec.md`) and Ask AI in `spec/ask-ai-backend/spec.md`. There is no linter or formatter configured: `./mvnw clean test` is the only check.
 
 ## Gotchas
 
